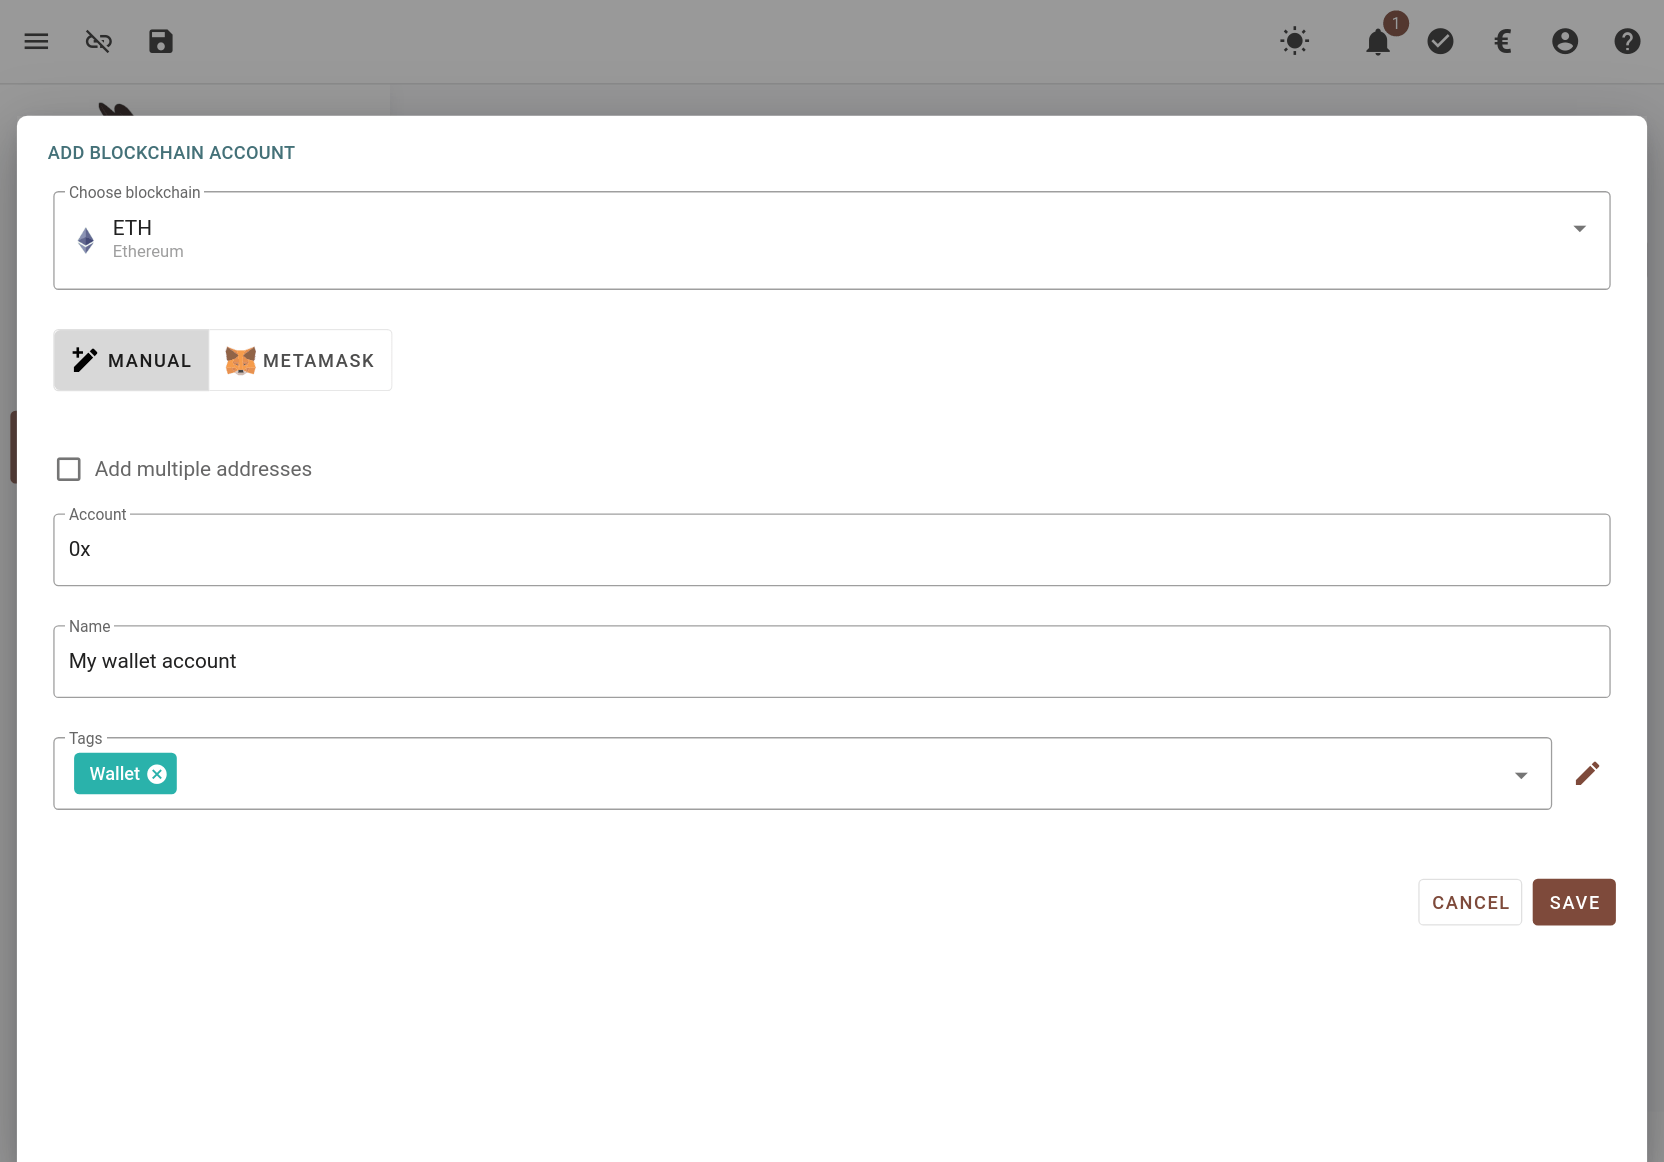
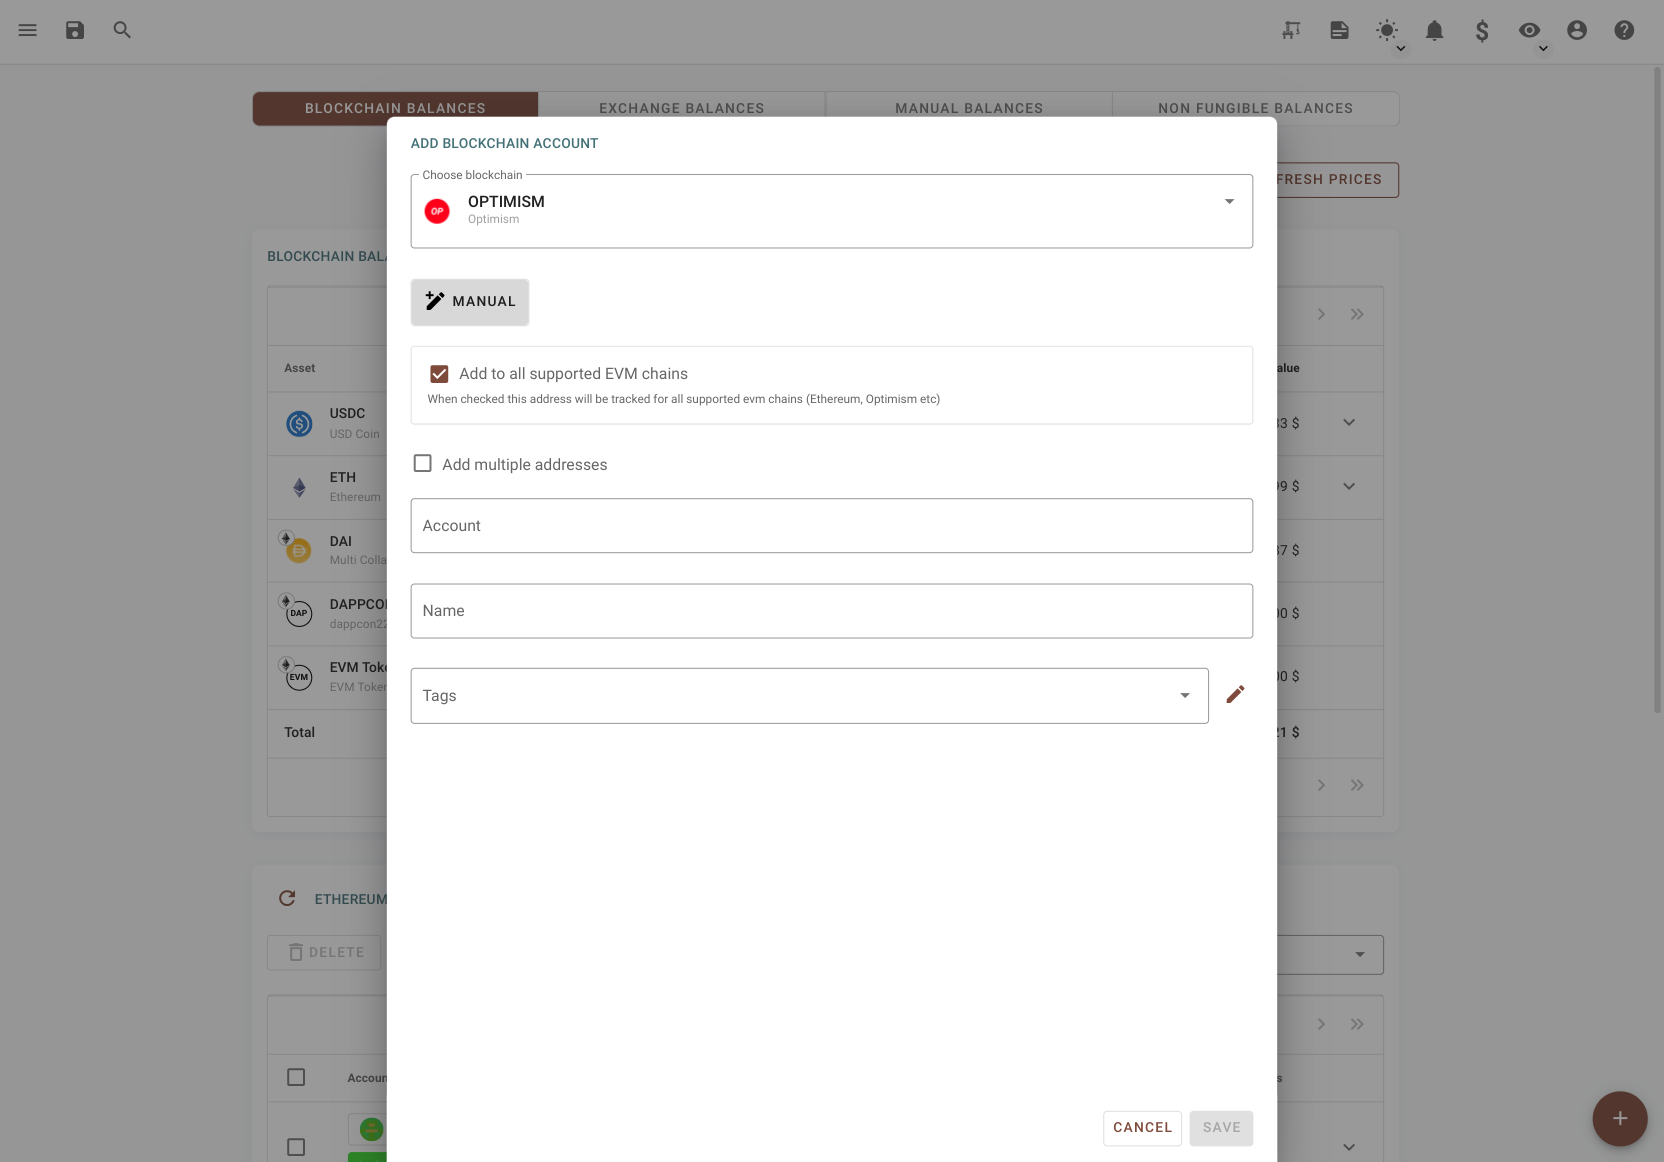
Update EVM sections in the usage guide + add OKX

diff --git a/docs/usage_guide.rst b/docs/usage_guide.rst
@@ -244,13 +244,13 @@ When making queries we always give preference to your own nodes if you have any 
 of picking it and is represented by a percentage. From that list it is also possible to mark them as active or inactive by using the toggle button.
 
 .. image:: images/rotki_nodes_management.png
-   :alt: Customizing the app's connection to ethereum nodes
+   :alt: Customizing the app's connection to evm nodes
    :align: center
 
 In this menu you can also edit, delete or add more nodes.
 
 .. image:: images/rotki_nodes_management_edition.png
-   :alt: Editing an ethereum node
+   :alt: Editing an evm node
    :align: center
 
 The slider lets you modify the weight of the node and you can also manually input a value. The owned parameter gives priority to the selected node over the rest of not owned nodes. You can also mark the node as not active in this screen to completely ignore it in the selection process.
@@ -367,10 +367,10 @@ Crypto to crypto trades
 
 Specify whether crypto to crypto trades are taxable and should be taken into account. If yes then each crypto to crypto trade also creates a "virtual" trade that sells or buys the crypto asset for fiat and then sells or buys the fiat for the other crypto asset.
 
-Ethereum gas costs
+EVM gas costs
 ^^^^^^^^^^^^^^^^^^^^^^
 
-Specify whether ethereum transaction gas costs should be counted as loss. If this is set then all ETH spent on gas will be deducted from your profits and count as an expense.
+Specify whether EVM transaction gas costs should be counted as loss. If this is set then all ETH spent on gas will be deducted from your profits and count as an expense.
 
 Tax free period
 ^^^^^^^^^^^^^^^^^^^^
@@ -600,7 +600,7 @@ Adding an exchange
 
 You can integrate many different exchanges with rotki. Currently supported exchanges are:
 Kraken, Poloniex, Bittrex, Bitmex, Bitfinex, Binance, Binance US, bitcoin.de, Coinbase,
-Coinbase Pro, Gemini, Iconomi, Bitstamp, KuCoin, FTX, FTX US, Independent Reserve.
+Coinbase Pro, Gemini, Iconomi, Bitstamp, KuCoin, FTX, FTX US, Independent Reserve, OKX.
 
 To do so you have to go to your exchange and create an API key (see the section :ref:`api-key-permissions`).
 
@@ -782,7 +782,7 @@ A sample generic events template can be found below
 
 Supported Locations
 --------------------
-A list of supported locations in Rotki are ``"external"``, ``"kraken"``, ``"poloniex"``, ``"bittrex"``, ``"binance"``, ``"bitmex"``, ``"coinbase"``, ``"banks"``, ``"blockchain"``, ``"coinbasepro"``, ``"gemini"``, ``"equities"``, ``"realestate"``, ``"commodities"``, ``"cryptocom"``, ``"uniswap"``, ``"bitstamp"``, ``"binanceus"``, ``"bitfinex"``, ``"bitcoinde"``, ``"iconomi"``, ``"kucoin"``, ``"balancer"``, ``"loopring"``, ``"ftx"``, ``"nexo"``, ``"blockfi"``, ``"independentreserve"``, ``"gitcoin"``, ``"sushiswap"``, ``"shapeshift"``, ``"uphold"``, ``"bitpanda"``, ``"bisq"`` and ``"ftxus"``.
+A list of supported locations in Rotki are ``"external"``, ``"kraken"``, ``"poloniex"``, ``"bittrex"``, ``"binance"``, ``"bitmex"``, ``"coinbase"``, ``"banks"``, ``"blockchain"``, ``"coinbasepro"``, ``"gemini"``, ``"equities"``, ``"realestate"``, ``"commodities"``, ``"cryptocom"``, ``"uniswap"``, ``"bitstamp"``, ``"binanceus"``, ``"bitfinex"``, ``"bitcoinde"``, ``"iconomi"``, ``"kucoin"``, ``"balancer"``, ``"loopring"``, ``"ftx"``, ``"nexo"``, ``"blockfi"``, ``"independentreserve"``, ``"gitcoin"``, ``"sushiswap"``, ``"shapeshift"``, ``"uphold"``, ``"bitpanda"``, ``"bisq"``, ``"ftxus"`` and ``"okx"``.
 
 **NOTE**: In the columns where an asset is expected you will need to use the identifier that such asset has in rotki otherwise the row won't be read.
 **NOTE**: If at any point, you're confused as regards the csv format, feel free to send us a message on `Discord <https://discord.gg/aGCxHG7>`_.
@@ -817,7 +817,10 @@ Adding and Removing Blockchain Accounts
 
 rotki allows to track balances of blockchain accounts.
 
-To add or modify an account navigate to the "Blockchain Balances" sub-page and click the large "+" icon. Now choose the blockchain on which you want to add an account (for now only Bitcoin, Bitcoin Cash, Ethereum, Kusama, Polkadot and Avalanche chains are supported). Then type or paste the address in the "Account" textbox and press the "Save" Button. Note that you can add multiple accounts if you click the "Add multiple addresses" checkbox and provide a comma separated list of addresses.
+To add or modify an account navigate to the "Blockchain Balances" sub-page and click the large "+" icon. Now choose the blockchain on which you want to add an account (for now only Bitcoin, Bitcoin Cash, Ethereum, Optimism, Kusama, Polkadot and Avalanche chains are supported). Then type or paste the address in the "Account" textbox and press the "Save" Button. Note that you can add multiple accounts if you click the "Add multiple addresses" checkbox and provide a comma separated list of addresses.
+
+If the selected chain is an EVM chain you will see "Add to all supported EVM chains" checkbox. It is checked by default and it means that rotki will try to add the address for all EVM chains. If the address is a contract in Ethereum mainnet it will only be added to Ethereum. Otherwise for each chain rotki will check whether the address had any activity there and will add only if it has at least one transaction. If you uncheck the checkbox, then the address will only be added to the selected chain.
+
 When scrolling through the page the "+" will automatically switch the pre-selected chain based on the context. For example
 if the table displaying the screen center is the BTC table then BTC will be pre-selected when pressing "+".
 
@@ -831,7 +834,7 @@ To stop tracking one or more accounts you can check the corresponding box in the
    :alt: Delete a blockchain account
    :align: center
 
-If an ethereum account also contains tracked tokens you can click on the arrow under "Actions" in order to expand its view and show the balance breakdown for the account over all assets it holds.
+If an EVM account also contains tracked tokens you can click on the arrow under "Actions" in order to expand its view and show the balance breakdown for the account over all assets it holds.
 
 For Bitcoin/Bitcoin Cash you can add addresses manually or let rotki discover them using an xpub. From this key rotki can generate your addresses and query the Bitcoin/Bitcoin Cash blockchain for each one of them until it finds unused addresses.
 There are also different types of xpubs. P2PKH xpubs generate addresses that have "1" as a prefix, P2SH_P2WPKH xpubs generate addresses that start with a "3" and WPKH xpubs generate addresses that start with "bc1". You will need to know what type of xpub your bitcoin wallet generates in order to choose the correct type at the dropdown menu. If your wallet generates an xpub prefixed with ``ypub`` or an xpub prefix with ``zpub`` rotki can deduce the type for you automatically.
@@ -847,7 +850,7 @@ An xpub does not allow spending your coins but provides information about your w
 ENS names resolution
 =====================
 
-rotki automatically resolves ens name for each of your ethereum accounts. If there is a primary ens name specified for an account, this name will be shown instead of raw blockchain address across the app. You can find the blockchain address by hovering the mouse over the ens name.
+rotki automatically resolves ens name for each of your evm accounts. If there is a primary ens name specified for an account, this name will be shown instead of a raw blockchain address across the app. You can find the blockchain address by hovering the mouse over the ens name.
 
 .. image:: images/ens_resolution.png
    :alt: Example of resolving an ens name
@@ -856,7 +859,7 @@ rotki automatically resolves ens name for each of your ethereum accounts. If the
 Token detection
 ===============
 
-For every ethereum address it is possible to trigger the process of detecting tokens by clicking in the refresh arrow for that address. In addition it is possible to trigger the detection process for all the addresses by clicking on ``RE-DETECT TOKENS``.
+For every evm address it is possible to trigger the process of detecting tokens by clicking in the refresh arrow for that address. In addition it is possible to trigger the detection process for all the addresses by clicking on ``RE-DETECT TOKENS``.
 
 .. image:: images/tokens_detection.png
    :alt: Detecting tokens
@@ -866,7 +869,7 @@ For every ethereum address it is possible to trigger the process of detecting to
 EVM Transactions
 =====================
 
-rotki is capable of getting and decoding (understand what is happening) your EVM transactions. When you visit the ``EVM Transactions`` section the process to obtain all the information will start. You will be able to check the status in an informative breakdown per address. Free users are limited to the 100 latest transactions.
+rotki is capable of getting and decoding (understand what is happening) your EVM (Ethereum Virtual Machine) transactions. Currently transactions are queried and decoded for Ethereum and Optimism. When you visit the ``EVM Transactions`` section the process to obtain all the information will start. You will be able to check the status in an informative breakdown per address. Free users are limited to the 100 latest transactions.
 
 .. image:: images/eth_tx_query_process.png
    :alt: EVM transactions query status breakdown
@@ -894,7 +897,7 @@ Here the non obvious fields are:
 
 - ``Event Type``: We have created a categorization of all the actions in a set of major event types. This field will describe the action category.
 - ``Event Subtype``: Inside an event type you can perform different actions. This subtype will let you describe exactly what is happening in the event.
-- ``Sequence Index``: Is an internal index that sets the order in which events happened in the transactions. This allows knowing how events are sorted and should be taken into account. By default it corresponds to the event log index in the ethereum blockchain with a few exceptions.
+- ``Sequence Index``: Is an internal index that sets the order in which events happened in the transactions. This allows knowing how events are sorted and should be taken into account. By default it corresponds to the event log index in the blockchain with a few exceptions.
 - ``Location Label``: This is the address related to the event, for example if you are receiving one asset in a transfer or calling a contract will match with your address.
 - ``Counterparty``: This is the other part of the transaction, the address you are interacting with. Can be a protocol identifier if the transaction is decoded as part of a protocol.
 
@@ -1740,20 +1743,20 @@ To pin a note to the top, click on the button labelled as **2** in the screensho
    :align: center
 
 
-Ethereum Address Book
+Evm Address Book
 ******************************
 
-Rotki now provides an addressbook for the Ethereum blockchain. This replaces addresses with names provided by the user across the application. Addressbook is split into two different kinds:
+Rotki provides an addressbook for EVM blockchains. This replaces addresses with names provided by the user across the application. You can click on "Save this name for all chains" to use the name for the provided address on all chains where that address appears. Addressbook is split into two different kinds:
 
 1. **Global Addressbook**: It replaces addresses with the names provided across the entire application irrespective of user logged in.
 2. **Private Addressbook**: It replaces addresses with the names provided for the user currently logged in. It takes precedence over names found in the global addressbook.
 
-.. image:: images/add_eth_address_book.png
-   :alt: Adding entry to ETH address book.
+.. image:: images/add_evm_address_book.png
+   :alt: Adding entry to EVM address book.
    :align: center
 
-.. image:: images/display_eth_address_book_behaviour.png
-   :alt: Displaying behaviour of an ETH address book
+.. image:: images/display_evm_address_book_behaviour.png
+   :alt: Displaying behaviour of an EVM address book
    :align: center
 
 **NOTE:** The address resolution order can be configured in the general user settings. The default order is: Private Address Book -> Blockchain Account Labels -> Global Address Book -> Ethereum Tokens -> Hardcoded Mappings -> ENS names.
